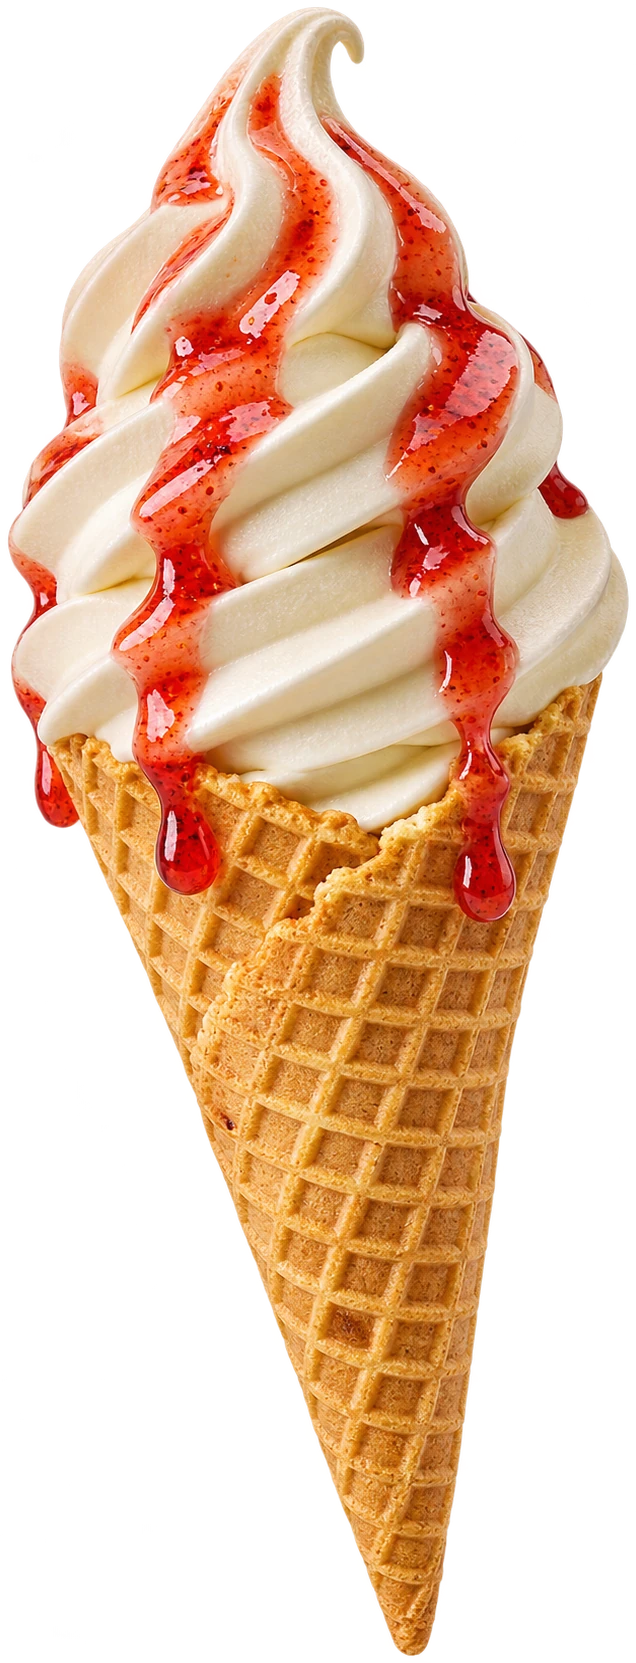
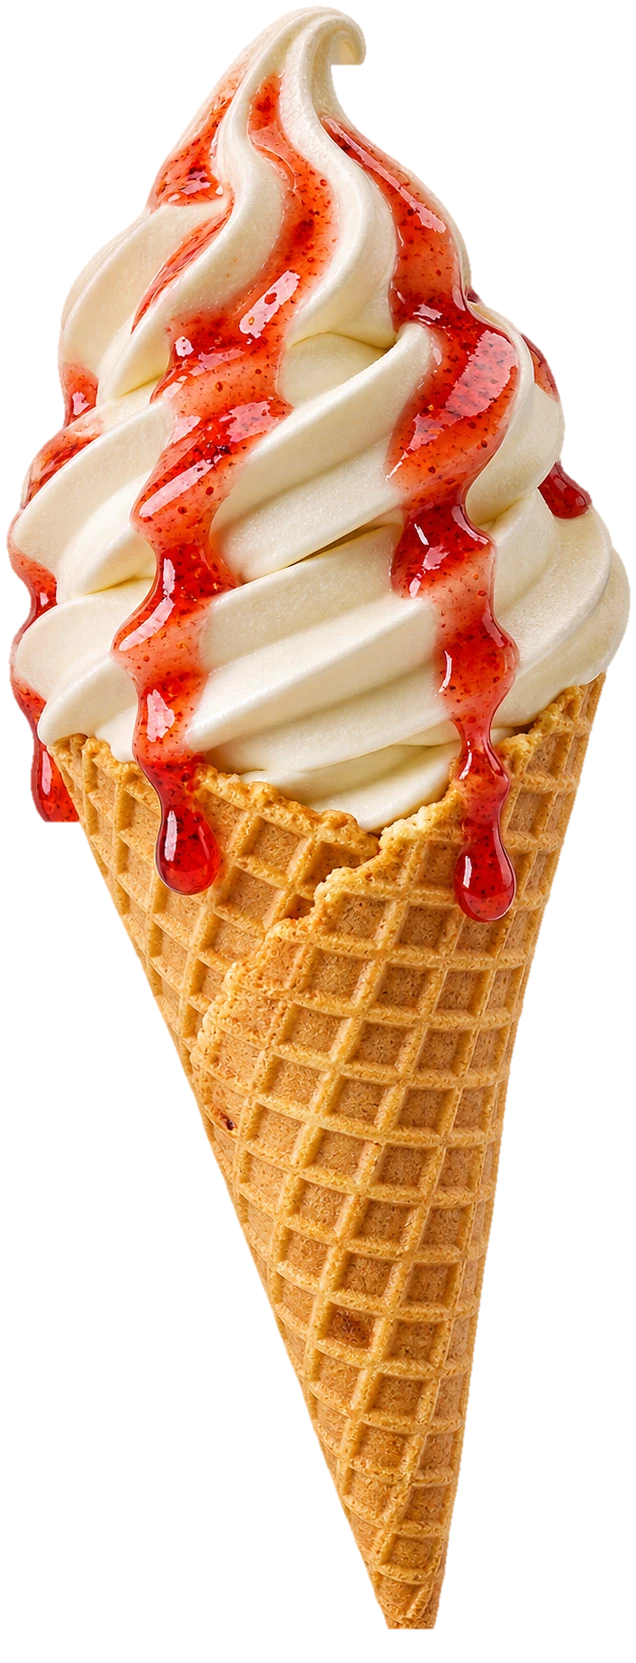
Рожок без дыр при повороте: форма по телу рожка без висящих сбоку капель, фото внутри формы сплошное

diff --git a/src/three/Cone3D.ts b/src/three/Cone3D.ts
@@ -46,8 +46,8 @@ function bodyGeometry(grow: number) {
       const s = Math.sin(a),
         c = Math.cos(a);
       pos.push((cx - 0.5) * K + r * K * s * grow, (v - 0.5) * HW, r * K * c * grow);
-      // проекция спереди; сзади — зеркально; чуть внутрь контура — край снимка полупрозрачный
-      uv.push(cx + r * 0.955 * s, v);
+      // проекция спереди; сзади — зеркально; фото внутри контура сплошное (build-cone.py), край чуть внутри
+      uv.push(cx + r * 0.985 * s, v);
     }
   }
   for (let i = 0; i < rows.length - 1; i++)

diff --git a/scripts/build-cone.py b/scripts/build-cone.py
@@ -24,10 +24,37 @@ union = np.max(np.stack([a[:, :, 3] for a in ims.values()]), 0)
 ys, xs = np.where(union > 20)
 P = 6
 y0, y1, x0, x1 = max(0, ys.min() - P), min(Hm, ys.max() + P), max(0, xs.min() - P), min(Wm, xs.max() + P)
-for k, a in ims.items():
-    Image.fromarray(a[y0:y1, x0:x1]).save(f"{out_dir}/full-{k}.webp", "WEBP", quality=90, method=6)
 A = union[y0:y1, x0:x1].astype(np.float32) / 255
 H, W = A.shape
+
+# «тело» рожка без капель, висящих сбоку в воздухе: при повороте между ними и рожком видна дыра.
+# Горизонтальное открытие убирает узкие боковые выступы; макушку (завиток) не трогаем.
+import cv2
+body = (A > 0.5).astype(np.uint8)
+opened = cv2.morphologyEx(body, cv2.MORPH_OPEN, cv2.getStructuringElement(cv2.MORPH_RECT, (45, 1)))
+tip = int(H * 0.07)
+opened[:tip] = body[:tip]
+n, lab, st, _ = cv2.connectedComponentsWithStats(opened, 8)
+core = (lab == 1 + np.argmax(st[1:, cv2.CC_STAT_AREA])).astype(np.uint8)
+# сплошная форма: всё между левым и правым краем тела в каждой строке
+fill = np.zeros_like(core)
+for y in range(H):
+    xr = np.where(core[y])[0]
+    if len(xr):
+        fill[y, xr.min() : xr.max() + 1] = 1
+fill_soft = cv2.GaussianBlur(fill.astype(np.float32), (3, 3), 0)
+
+for k, a in ims.items():
+    c = a[y0:y1, x0:x1].copy()
+    rgb = cv2.cvtColor(c[:, :, :3], cv2.COLOR_RGB2BGR)
+    # пустоты внутри формы (и полупрозрачный край) закрашиваем соседними цветами — без дыр при повороте
+    # источник цвета — только непрозрачное фото: прозрачный фон (чёрный в RGB) тоже в маске
+    holes = ((c[:, :, 3] < 230) | (fill == 0)).astype(np.uint8)
+    rgb = cv2.inpaint(rgb, holes, 5, cv2.INPAINT_TELEA)
+    c[:, :, :3] = cv2.cvtColor(rgb, cv2.COLOR_BGR2RGB)
+    c[:, :, 3] = np.clip(fill_soft * 255, 0, 255).astype(np.uint8)
+    Image.fromarray(c).save(f"{out_dir}/full-{k}.webp", "WEBP", quality=90, method=6)
+A = fill.astype(np.float32)
 
 N = 220
 l, r = [], []
